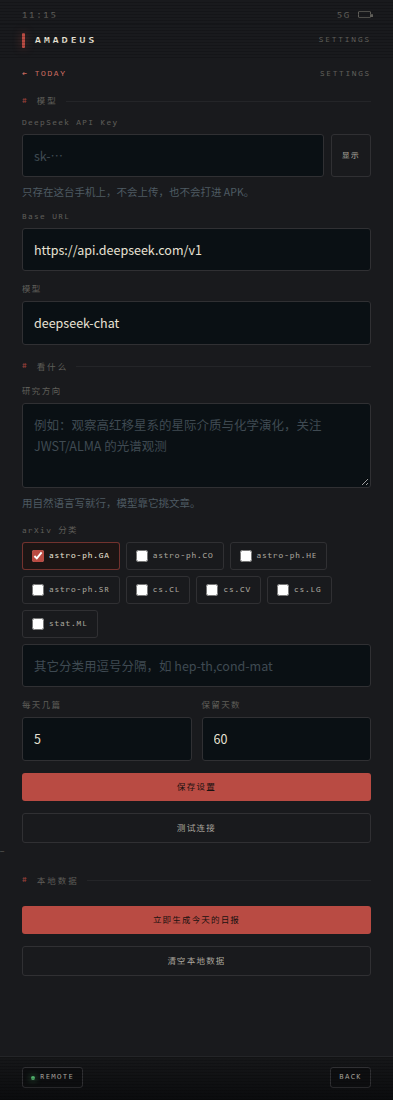
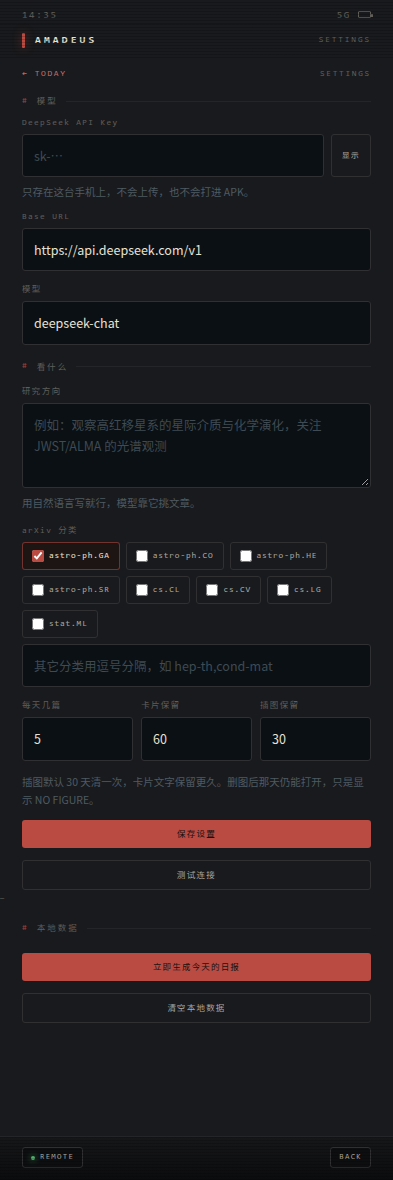
feat(v0.7.2): 应用内自检
- 设置页「运行自检」：IndexedDB / 原生 HTTP 桥 / 模型接口 三项
- 任一项失败直接在屏幕上显示错误，便于无法连 adb 时排查

diff --git a/public/app.js b/public/app.js
@@ -632,6 +632,7 @@ function bindSettings() {
       $('cfgStatus').textContent = '远程不可达（本地模式不受影响）';
     }
   };
+  $('btnSelfTest').onclick = () => runSelfTest();
   $('btnGen').onclick = () => startGenerate();
   $('btnClear').onclick = async () => {
     if (!confirm('会删掉本机生成的所有日报和图片，确定？')) return;
@@ -677,6 +678,62 @@ async function startGenerate() {
     $('genClose').disabled = false;
     $('genClose').textContent = '关闭';
   }
+}
+
+
+/* ---------------- 自检 ---------------- */
+async function runSelfTest() {
+  const box = $('selfTestOut');
+  box.hidden = false;
+  box.innerHTML = '';
+  const line = (txt, cls) => {
+    const d = document.createElement('div');
+    if (cls) d.className = cls;
+    d.textContent = txt;
+    box.appendChild(d);
+  };
+  const t0 = Date.now();
+  const cfg = LocalEngine.getCfg();
+
+  // ① 存储
+  line('· IndexedDB');
+  try {
+    await LocalEngine.saveCfg(cfg);
+    const days = await LocalEngine.listDays();
+    line(`  ✓ 可读写（已有 ${days.length} 天）`, 'ok');
+  } catch (e) { line('  ✗ ' + e.message, 'bad'); }
+
+  // ② 原生桥
+  line('· 原生 HTTP 桥');
+  try {
+    const r = await LocalEngine.req('GET', 'https://rss.arxiv.org/rss/astro-ph.GA');
+    if (!r.ok) throw new Error('HTTP ' + r.status);
+    const kb = Math.round(atob(r.base64).length / 1024);
+    line(`  ✓ 抓到 ${kb} KB`, 'ok');
+  } catch (e) { line('  ✗ ' + e.message, 'bad'); }
+
+  // ③ 模型
+  line('· 模型接口');
+  try {
+    if (!cfg.apiKey) throw new Error('还没填 API key');
+    const r = await LocalEngine.req('POST', cfg.baseUrl.replace(/\/$/, '') + '/chat/completions', {
+      headers: { 'Content-Type': 'application/json', 'Authorization': 'Bearer ' + cfg.apiKey },
+      body: JSON.stringify({
+        model: cfg.model,
+        messages: [{ role: 'user', content: 'ping' }],
+        max_tokens: 1,
+      }),
+    });
+    if (!r.ok) {
+      let msg = 'HTTP ' + r.status;
+      try { msg += ' ' + atob(r.base64).slice(0, 180); } catch (e) {}
+      throw new Error(msg);
+    }
+    line('  ✓ 模型可用', 'ok');
+  } catch (e) { line('  ✗ ' + e.message, 'bad'); }
+
+  line('');
+  line(`用时 ${((Date.now() - t0) / 1000).toFixed(1)}s`);
 }
 
 /* ---------------- 图片查看器 ---------------- */

diff --git a/public/style.css b/public/style.css
@@ -343,3 +343,10 @@ details.orig p.en{font-family:var(--sans);font-size:11.2px;line-height:1.92;colo
 .gfill{height:100%;width:0;background:linear-gradient(90deg,var(--verm),var(--verm-lt));transition:width .3s}
 .gpct{font-family:var(--mono);font-size:9px;letter-spacing:.2em;color:var(--faint);margin-bottom:18px}
 .three{display:grid;grid-template-columns:1fr 1fr 1fr;gap:8px}
+
+/* 自检结果 */
+.selftest{border:1px solid var(--line);border-radius:3px;background:#0a1014;padding:10px 11px;
+  font-family:var(--mono);font-size:9.5px;line-height:1.9;letter-spacing:.02em;color:var(--dim);
+  white-space:pre-wrap;word-break:break-word;max-height:220px;overflow:auto}
+.selftest .ok{color:#5fbf86}
+.selftest .bad{color:#e07a6e}

diff --git a/public/index.html b/public/index.html
@@ -258,6 +258,8 @@
       <div class="sec2">本地数据</div>
       <p class="x" id="cfgDataInfo" style="font-size:11.5px"></p>
       <div class="form">
+        <button class="btn ghost" id="btnSelfTest">运行自检</button>
+        <div class="selftest" id="selfTestOut" hidden></div>
         <button class="btn" id="btnGen">立即生成今天的日报</button>
         <button class="btn ghost" id="btnClear">清空本地数据</button>
       </div>

diff --git a/public/local.js b/public/local.js
@@ -510,6 +510,7 @@ async function clearAll() {
 
 window.LocalEngine = {
   loadCfg, saveCfg, hasKey, getCfg: () => CFG,
+  req: nativeReq,
   runDaily, listDays, getDay, figureURL, usageStats, clearAll,
   estimateTokens: ntok,
 };
